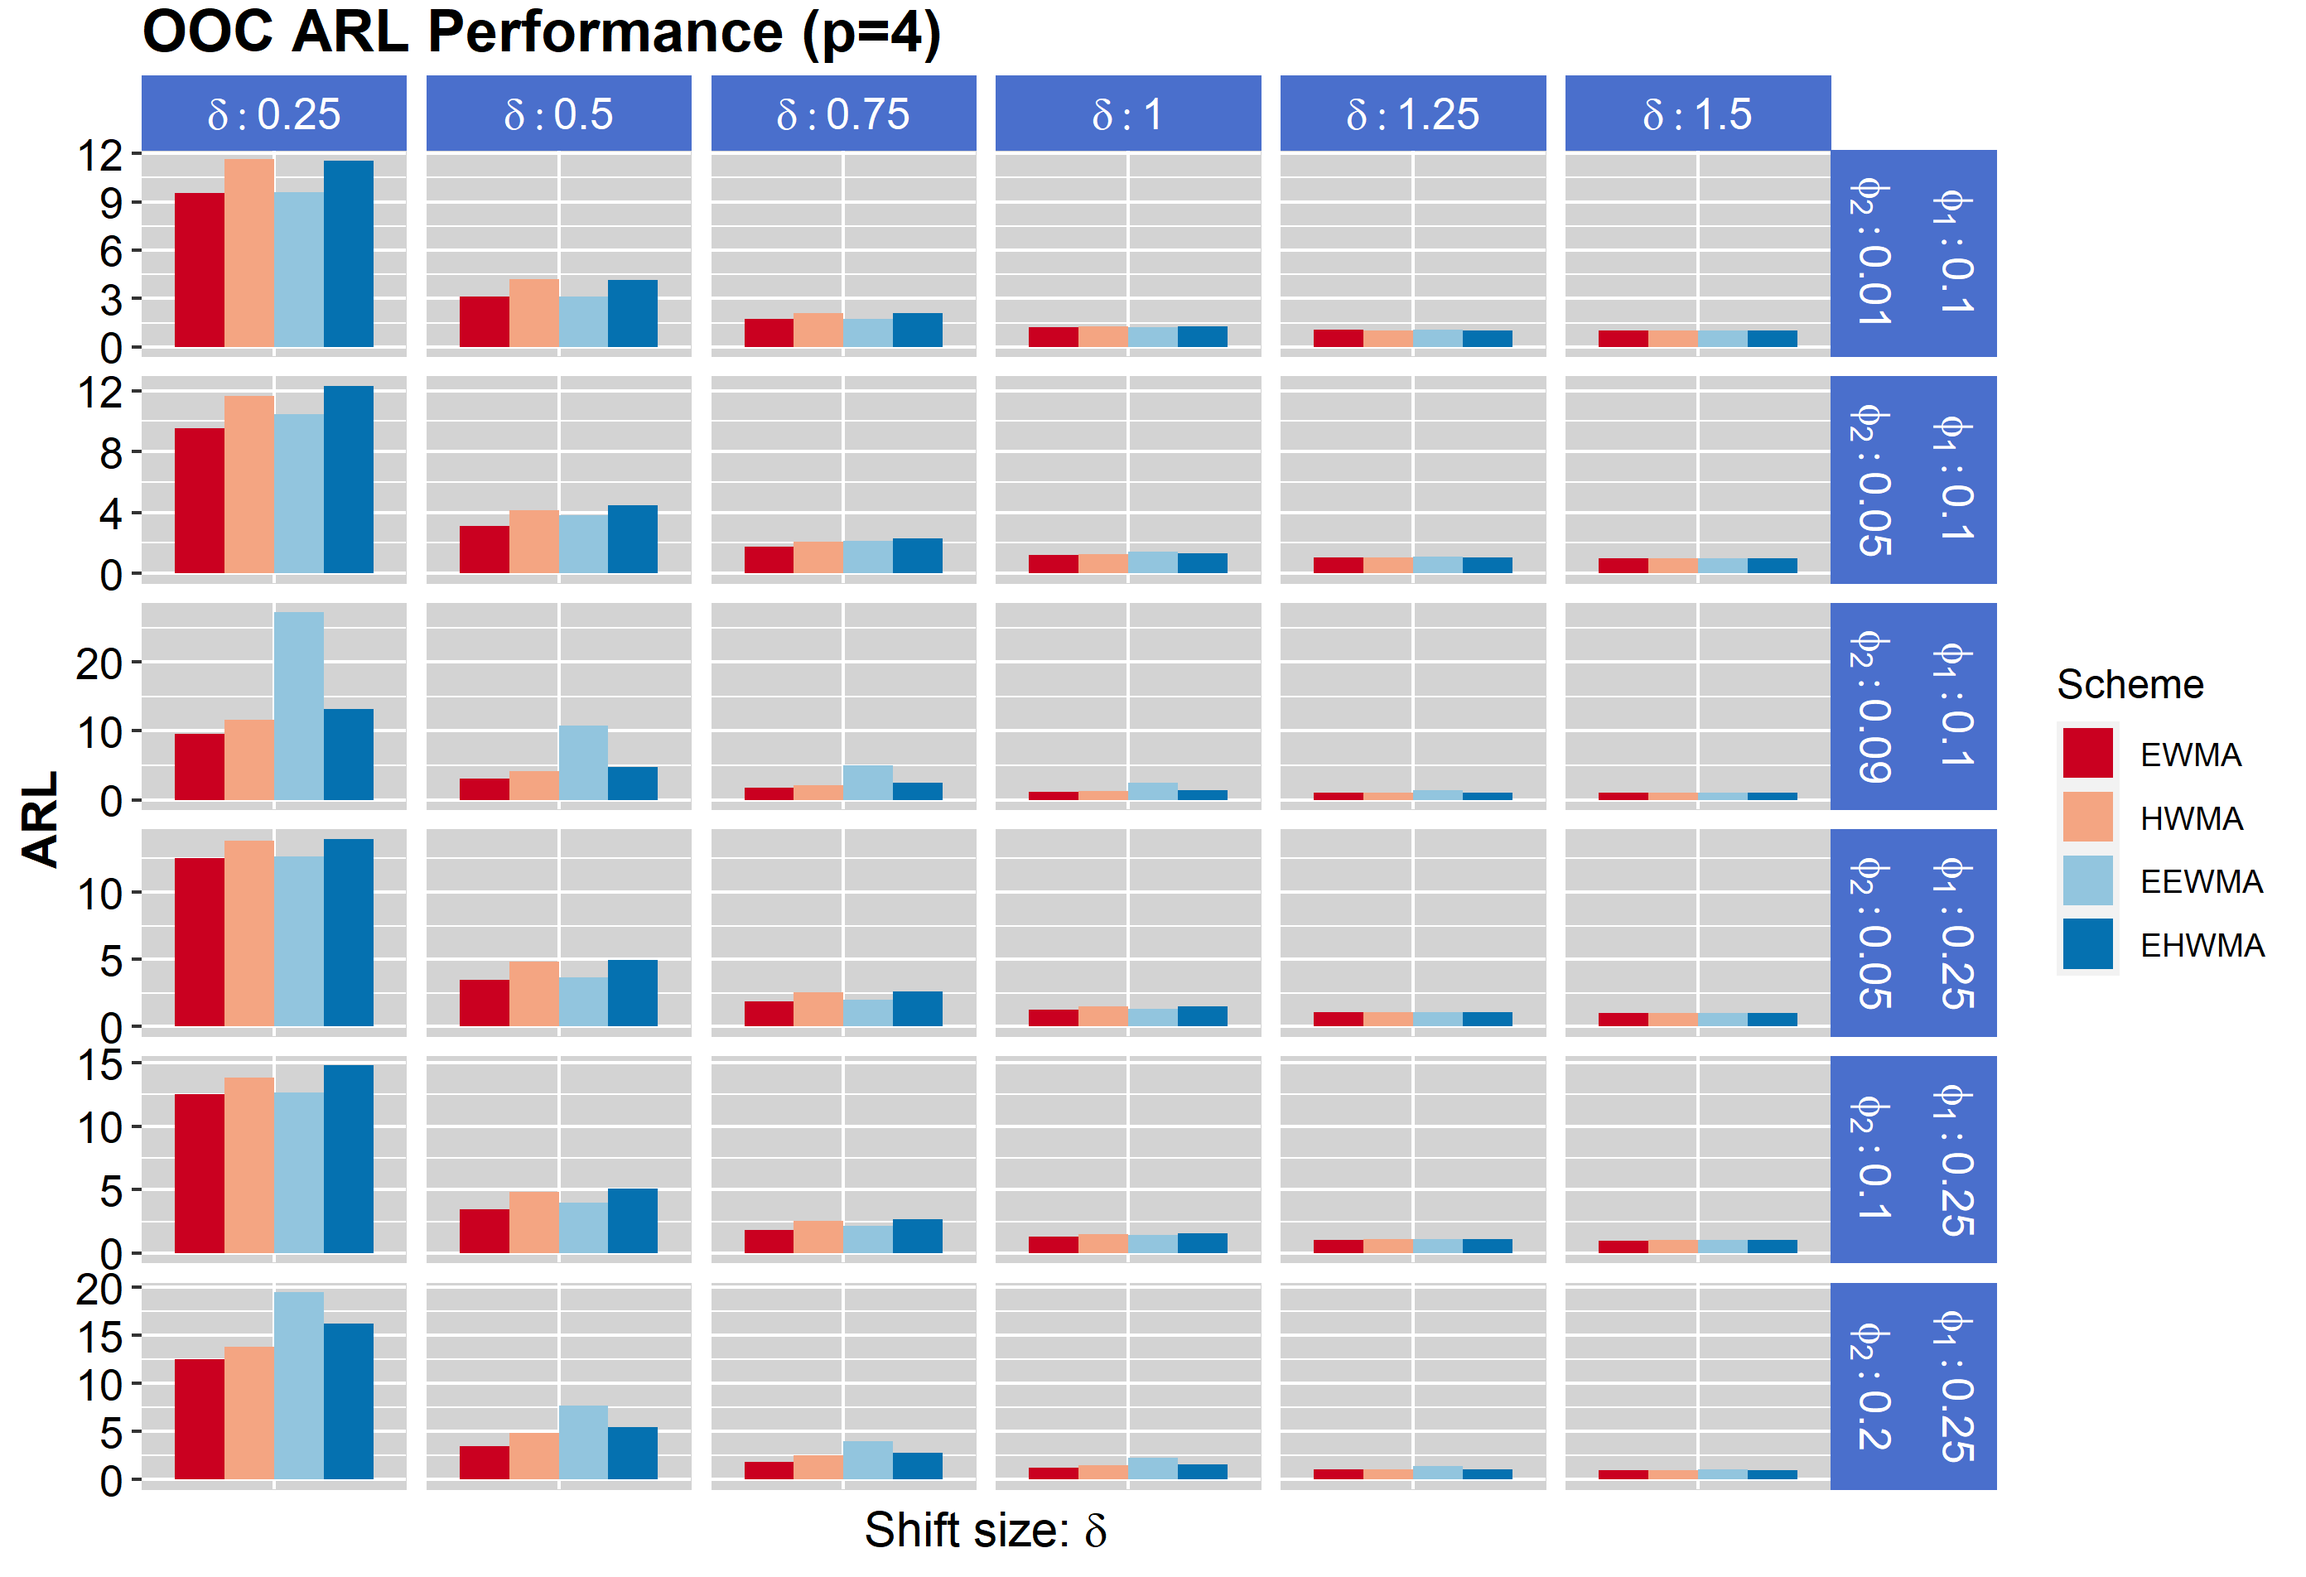
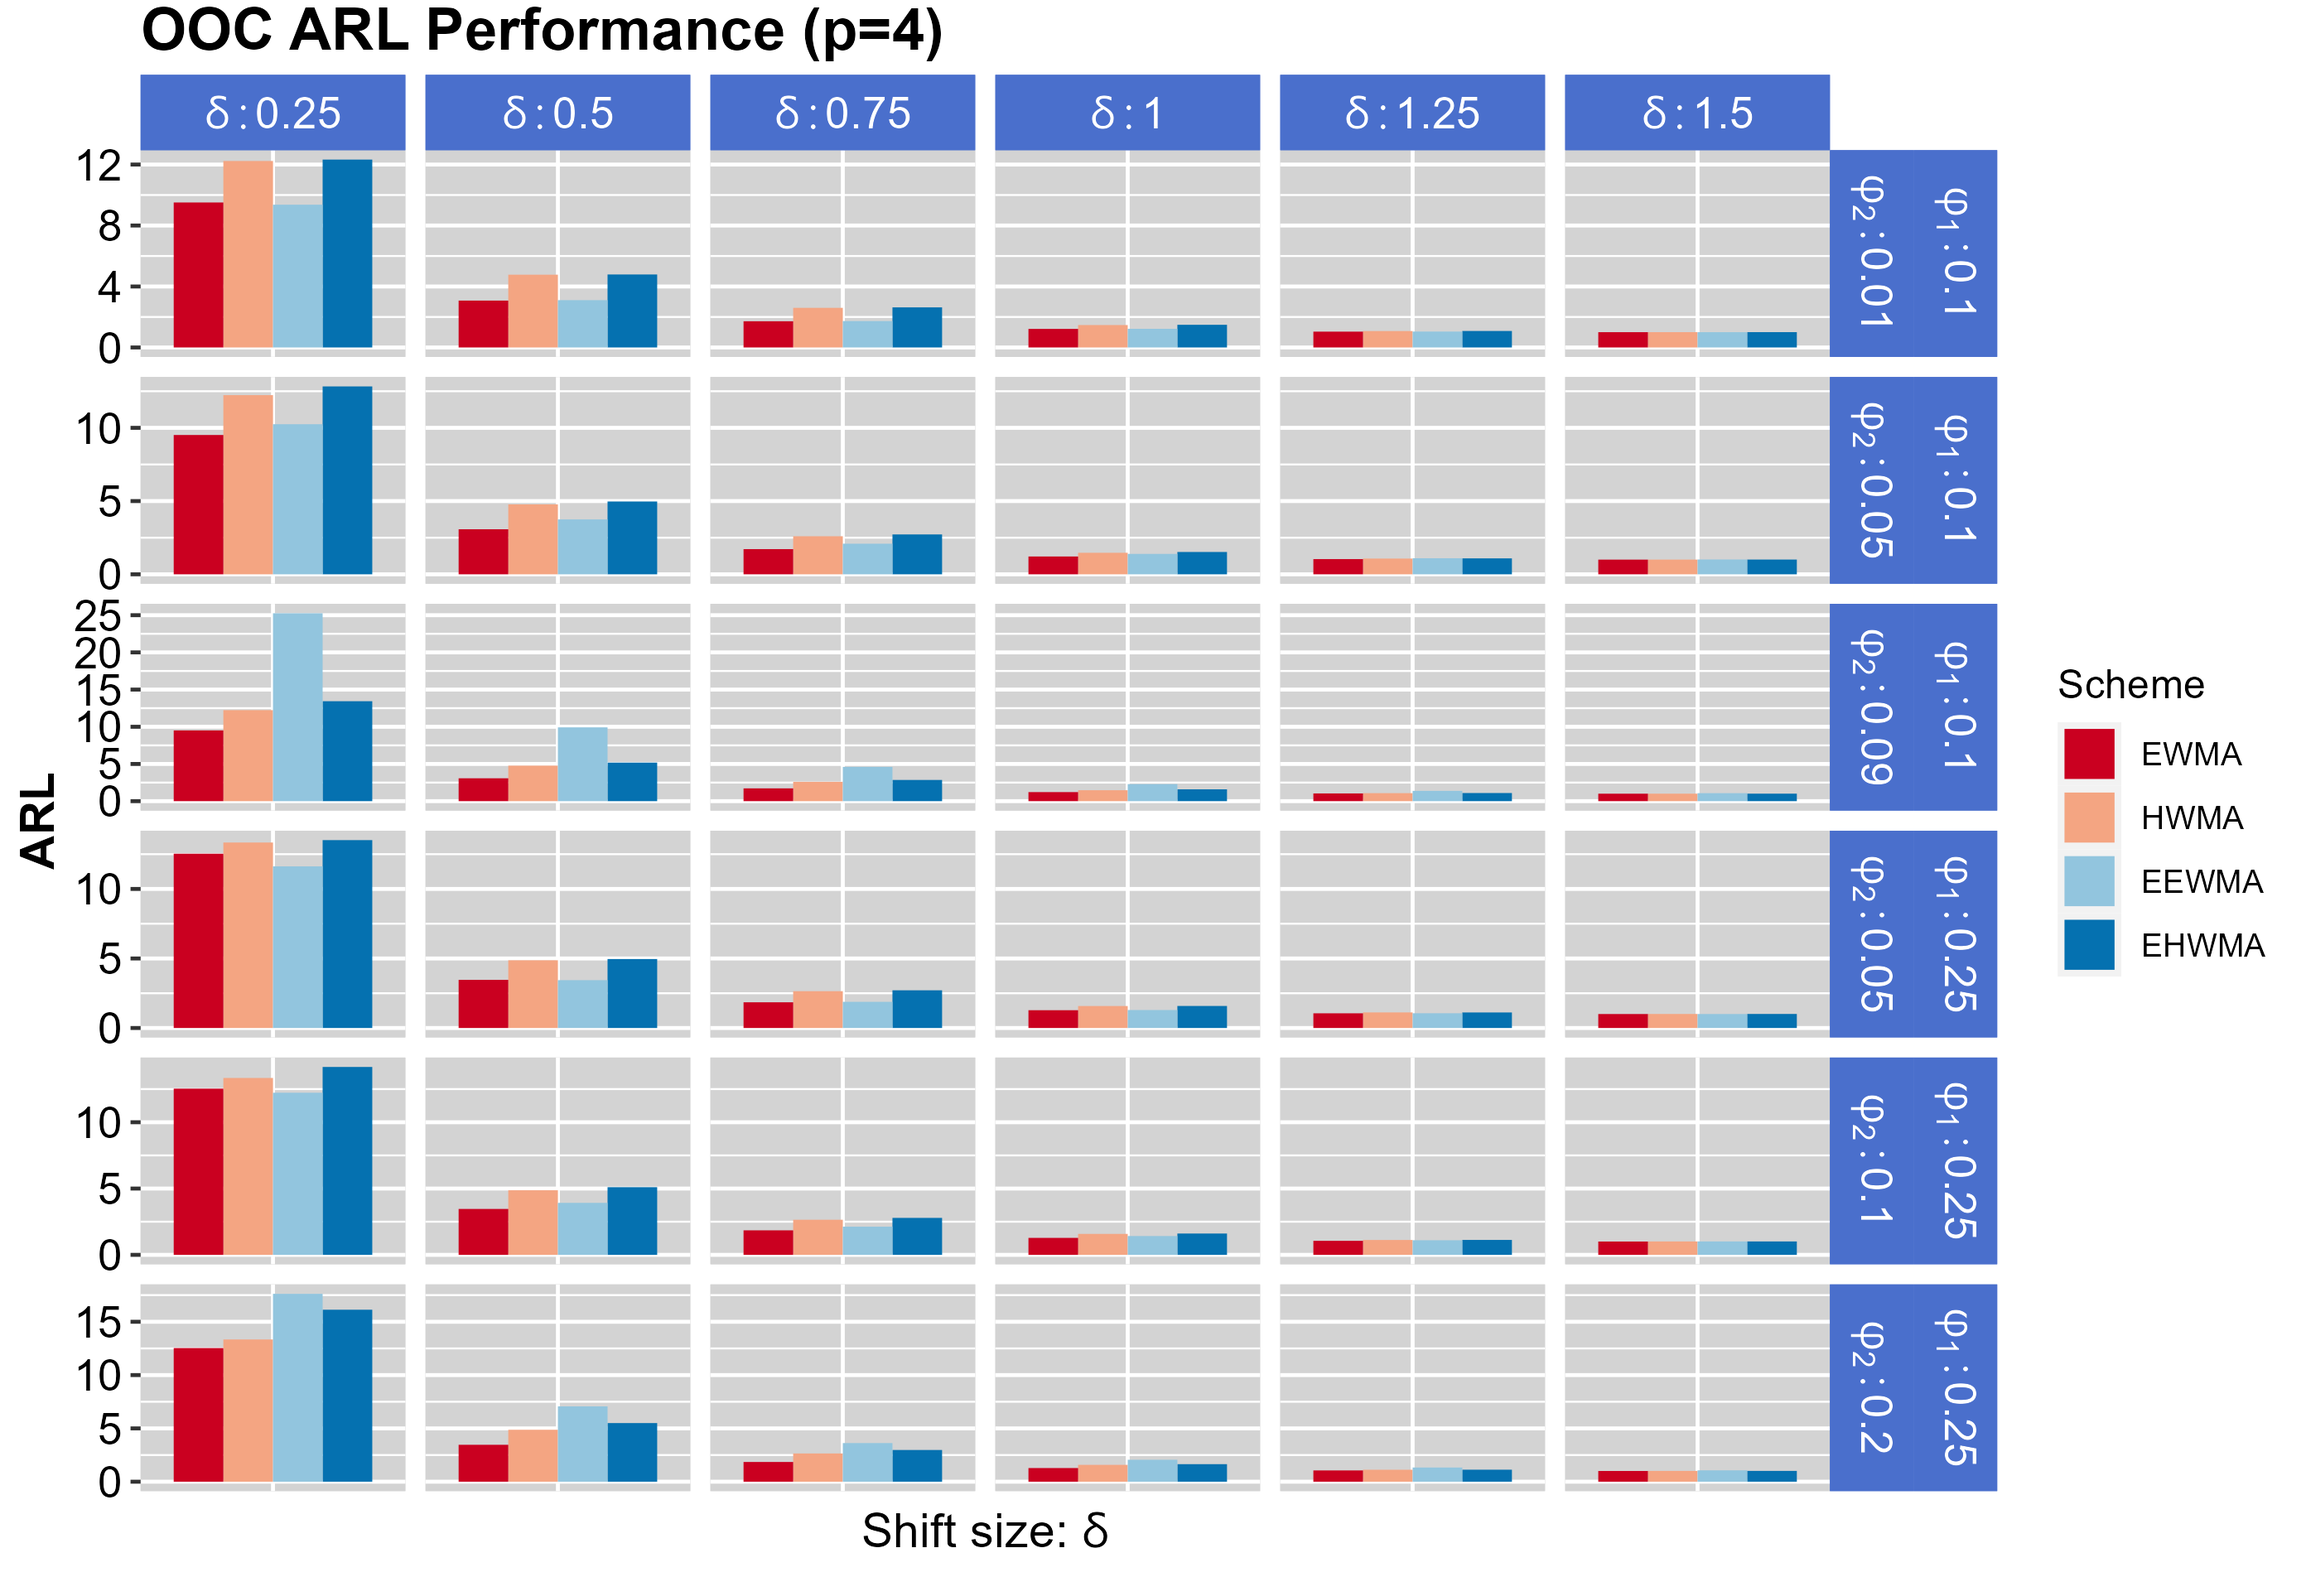
dist done

diff --git a/spm_univariate_main.py b/spm_univariate_main.py
@@ -30,22 +30,28 @@ tau = 1
 # tau_arr[::2] = tau_arr1
 # tau_arr[1::2] = tau_arr2
 
-tau_arr = np.arange(1,110,10)
+# tau_arr = np.arange(1,110,10)
 
-# dist_arr = [sts.norm(loc=0,scale=1),sts.t(df=10),sts.gamma(loc=1,sacle=1),sts.gamma(loc=10,scale=1),sts.lognorm(scale=np.exp(0),s=1),sts.chi2(df=30)]
-# dist_names = ["N(0,1)","t(10)","GAM(1,1)","GAM(10,1)","LogN(0,1)","X2(30)"]
-# dist_num = len(dist_arr)
-print(tau_arr)
+dist_arr = [sts.norm(loc=0,scale=1),
+            sts.t(df=10),
+            sts.gamma(a=1,scale=1),
+            sts.gamma(a=10,scale=1),
+            sts.lognorm(scale=np.exp(0),s=1),
+            sts.chi2(df=30)]
+dist_names = ["N(0,1)","t(10)","GAM(1,1)","GAM(10,1)","LogN(0,1)","X2(30)"]
+dist_num = len(dist_arr)
+# print(tau_arr)
 
 #CHART TO TEST
-chart = spm_schemes.MEWMA()
+chart = spm_schemes.EHWMA()
 chart_name = chart.__class__.__name__
 
 print("Chart: " + chart_name)
 
 #SHIFT SIZES 
 # delta = np.arange(0,3.25,0.25)
-delta = [0.25,3.0]
+# delta = [0.25,3.0]
+delta = [0]
 print("Shift Sizes:")
 print(delta)
 
@@ -53,18 +59,19 @@ print(delta)
 phi_arr = [0.1,0.25]
 # phi_arr = [0.1,0.25,0.5,0.9]
 
-# phi2_arr = {0.1: [0.01,0.05,0.09],
-#             0.25: [0.05,0.1,0.2],
-#             0.5: [0.1,0.2,0.4],
-#             0.9: [0.2,0.5,0.8]} 
+phi2_arr = {0.1: [0.01,0.05,0.09],
+            0.25: [0.05,0.1,0.2],
+            0.5: [0.1,0.2,0.4],
+            0.9: [0.2,0.5,0.8]} 
 
 
-use_k = True
+use_k = False   
 opt_k = lambda x: -x/2
 
 with open(f'results\{chart_name}_optimal_L.json') as json_file:
        L_arr = json.load(json_file)
 
+df_cols = ['Tau','ARL','SDRL','MRL','MIN','MAX','Q25','Q75','L','Phi','Delta','Parameter_string','Distribution']
 
 if 'phi2_arr' in globals():
     #check parameters match chart
@@ -81,7 +88,8 @@ if 'phi2_arr' in globals():
 
     #ouput df
     # output_df = pd.DataFrame(columns=['ARL','SDRL','MRL','L','Phi','Phi2','Delta','Parameter_string'])
-    output_df = pd.DataFrame(columns=['Tau','ARL','SDRL','MRL','L','Phi','Phi2','Delta','Parameter_string'])
+    df_cols += ['Phi2']
+    output_df = pd.DataFrame(columns=df_cols)
 
 elif use_k:
     #check parameters match chart
@@ -97,7 +105,8 @@ elif use_k:
 
     #ouput df
     # output_df = pd.DataFrame(columns=['ARL','SDRL','MRL','L','Phi','k','Delta','Parameter_string'])    
-    output_df = pd.DataFrame(columns=['Tau','ARL','SDRL','MRL','L','Phi','k','Delta','Parameter_string'])    
+    df_cols += ['k']
+    output_df = pd.DataFrame(columns=df_cols)   
 else:
     #check parameters match chart
     accepted_charts = ["EWMA","HWMA"]
@@ -110,7 +119,7 @@ else:
 
     #ouput df
     # output_df = pd.DataFrame(columns=['ARL','SDRL','MRL','L','Phi','Delta','Parameter_string'])
-    output_df = pd.DataFrame(columns=['Tau','ARL','SDRL','MRL','L','Phi','Delta','Parameter_string'])
+    output_df = pd.DataFrame(columns=df_cols)
 
 
 print("Simulation Parameters:")
@@ -125,9 +134,9 @@ total_parameters = len(sim_parameters)
 
 #setup and set folders to save results
 # filepath = "./results/univariate_results/"
-filepath = "./results/univariate_results/ced/"
+filepath = "./results/univariate_results/dist/"
 # filename = filepath + "/" + chart_name + "_ARL_SDRL_MRL_results.csv"
-filename = filepath + "/" + chart_name + "_CED_results.csv"
+filename = filepath + "/" + chart_name + "_dist_results_std.csv"
 makedirs(filepath, exist_ok=True) 
 
 #==========================================================================
@@ -136,11 +145,12 @@ makedirs(filepath, exist_ok=True)
 start_time = time()
 
 for d in delta:
-    for tau in tau_arr:
+    for dist_i in range(dist_num):
         #DISTRIBUTION TO SAMPLE FROM 
-        dist = sts.norm(loc=d,scale=1)
+        dist = dist_arr[dist_i]
+        # dist = sts.norm(loc=d,scale=1)
         print('========================')
-        print(f"Delta: {d}, Tau: {tau}")
+        print(f"Delta: {d}, Dist: {dist_names[dist_i]}")
         print('========================')
         for i in range(total_parameters):
             parms_in_use = sim_parameters[i]
@@ -167,42 +177,31 @@ for d in delta:
                 print(f"Parameters: Phi: {phi}, L: {L}") 
                 parm_str = f'phi={phi}'
 
-            results = spm_sim.spm_iterate(chart_obj=chart,distribution=dist,n=n,tau=tau,standardise=False,L=L) #ARL,SDRL,MRL 
+            results = spm_sim.spm_iterate(chart_obj=chart,distribution=dist,n=n,tau=tau,standardise=True,L=L) #ARL,SDRL,MRL 
 
             print(results)
+            
+            newrow = {'Tau': tau,
+                        'ARL':results['ARL'],
+                        'SDRL':results['SDRL'],
+                        'MRL':results['MRL'],
+                        'MIN':results['MIN'],
+                        'MAX':results['MAX'],
+                        'Q25':results['Q25'],
+                        'Q75':results['Q75'],
+                        'L':L,
+                        'Phi':phi,
+                        'Delta':d,
+                        'Parameter_string':parm_str,
+                        'Distribution':dist_names[dist_i]}
 
             if 'phi2_arr' in globals():
-                newrow = pd.Series({'Tau': tau,
-                                    'ARL':results['ARL'],
-                                    'SDRL':results['SDRL'],
-                                    'MRL':results['MRL'],
-                                    'L':L,
-                                    'Phi':phi,
-                                    'Phi2':phi2,
-                                    'Delta': d,
-                                    'Parameter_string': parm_str})
+                newrow['Phi2'] = phi2
                 
             elif use_k in globals():
-                newrow = pd.Series({'Tau': tau,
-                                    'ARL':results['ARL'],
-                                    'SDRL':results['SDRL'],
-                                    'MRL':results['MRL'],
-                                    'L':L,
-                                    'Phi':phi,
-                                    'k':k,
-                                    'Delta': d,
-                                    'Parameter_string': parm_str})
-                
-            else:
-                newrow = pd.Series({'Tau': tau,
-                                    'ARL':results['ARL'],
-                                    'SDRL':results['SDRL'],
-                                    'MRL':results['MRL'],
-                                    'L':L,
-                                    'Phi':phi,
-                                    'Delta': d,
-                                    'Parameter_string': parm_str})
-        
+                newrow['k'] = k
+
+            newrow = pd.Series(newrow)
             output_df = pd.concat([output_df,newrow.to_frame().T],ignore_index=True)
             output_df.to_csv(filename,index=False,mode='w') #update csv file 
 

diff --git a/spm_sim_module.py b/spm_sim_module.py
@@ -83,8 +83,8 @@ def spm_iterate(n,chart_obj,distribution,tau=1,L=None,standardise=False,seed=123
     ARL = np.mean(t_arr)
     SDRL = np.std(t_arr)
     MRL = np.median(t_arr)
-    MIN = np.min(t_arr)
-    MAX = np.max(t_arr)
+    MIN = np.quantile(t_arr,0.05)
+    MAX = np.quantile(t_arr,0.95)
     Q25 = np.quantile(t_arr,0.25)
     Q75 = np.quantile(t_arr,0.75)
     printProgressBar(iteration=n,total=n,prefix='Iterate Progress')

diff --git a/spm_multivariate_main.py b/spm_multivariate_main.py
@@ -124,7 +124,7 @@ start_time = time()
 
 for d in delta:
     #DISTRIBUTION TO SAMPLE FROM 
-    ds = np.ones(p)@np.array([np.sqrt((d**2)/p)]*p)
+    ds = np.sqrt((d**2)/p)
     dist = sts.norm(loc=ds,scale=1)
     print('========================')
     print("Delta: {:.2f}".format(d))
